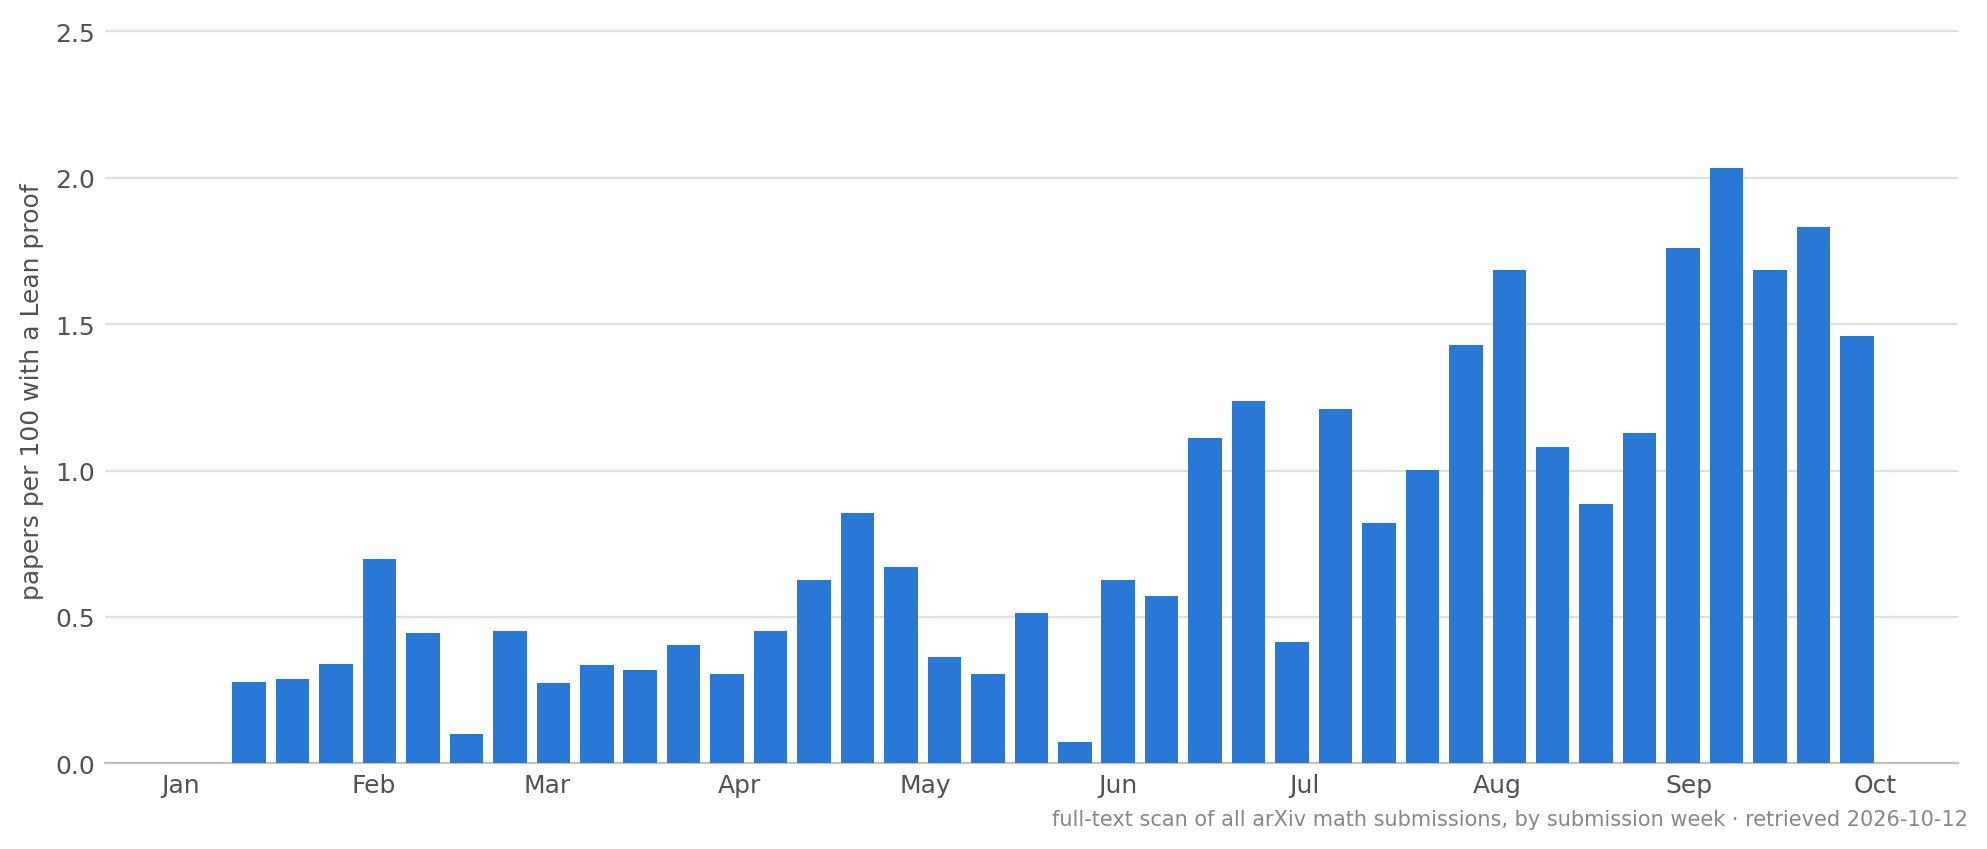
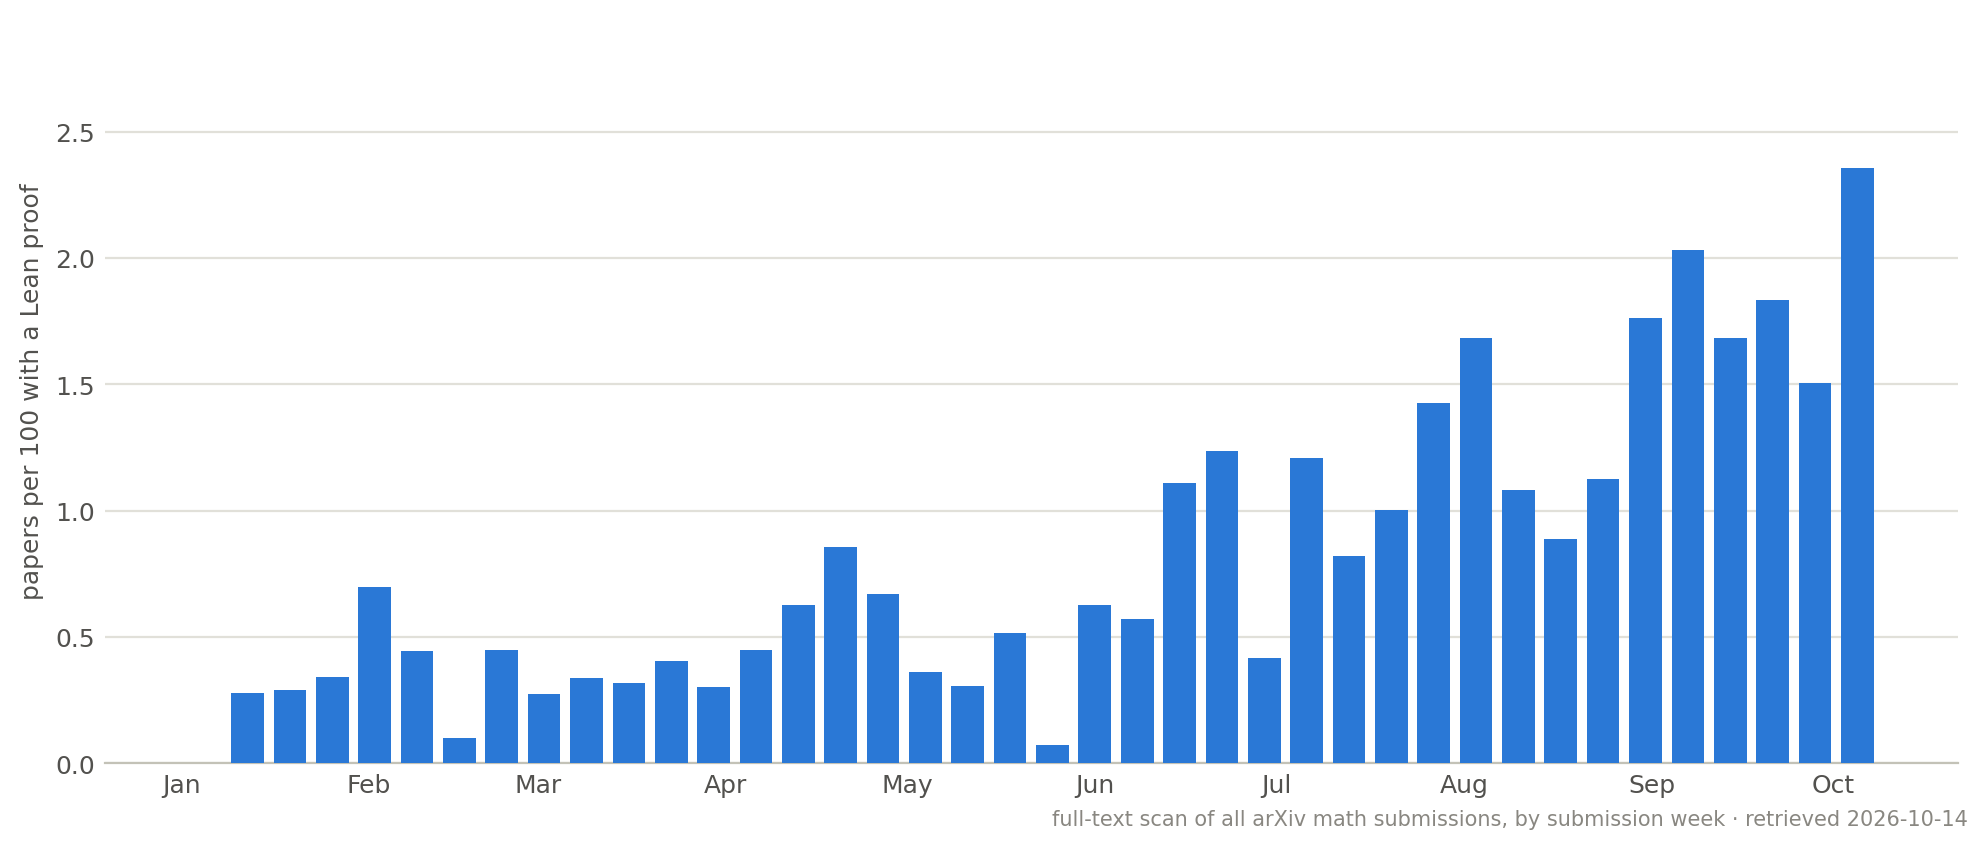
arXiv figure: data through the week of 5 October 2026
The week of 28 September grew (2 522 papers, 38 with a Lean-checked
result) and the week of 5 October is now complete: 60 of 2 546, 2.4
per 100, the highest week so far. Caption, alt text, slide fragment
and the script's docstring no longer say "under two in a hundred".

The GitHub figure is unchanged; its data is the same file as before,
and it only draws full quarters.

Claude-Session: https://claude.ai/code/session_011hHyctfXpfm9hUhve1Fytv

diff --git a/scripts/make_arxiv_figure.py b/scripts/make_arxiv_figure.py
@@ -3,9 +3,9 @@
 
 Plotted per 100 papers rather than as a weekly count, because the
 denominator moved: arXiv math went from about a thousand submissions a
-week in January 2026 to about twenty-four hundred at the end of
-September.  A rising count would partly be that growth; the share shows
-the level, which is still under two in a hundred.
+week in January 2026 to about twenty-five hundred in early October.  A
+rising count would partly be that growth; the share shows the level,
+which reached 2.4 per 100 in the first week of October.
 
 Data: scripts/data/arxiv_math_weekly.csv -- a full-text scan of every
 arXiv math submission of the period for uses of Lean and Mathlib,

diff --git a/CLAUDE.md b/CLAUDE.md
@@ -1291,3 +1291,24 @@ course is for" (Ziele) und "What your machine needs" (Hardware-Tabelle).
   eine Roadmap ueber den ganzen Bogen statt nur ueber die vier
   Episoden; `Mathlib` hat Zahlen und die Initiative dazubekommen.
   Keine Folie ueber 700 px, alle 31 haben Notizen.
+
+## 2026-10-14 (2) -- arXiv-Grafik auf den Stand vom 14.10.2026
+
+- **Nur die arXiv-Grafik hat neue Daten.** Quelle ist
+  `~/bwSyncShare/Vortraege/20260720_CRC/arxiv_fulltext_disclosure_weekly.csv`
+  (Stand 14.10.2026, 06:23); `scripts/data/arxiv_math_weekly.csv` ist
+  der Auszug daraus (`week_start`, `n` -> `papers`, `lean_formalized`,
+  `complete`). Geaendert: die Woche 28.09. ist nachgewachsen (2 466 ->
+  2 522 Papers, 36 -> 38), die Woche 05.10. ist jetzt vollstaendig
+  (2 546 / 60), die Woche 12.10. ist angelaufen und wird vom Skript
+  wegen `complete = 0` uebersprungen.
+- **Neuer Hoechstwert 2,36 pro 100** (05.10.), vorher 2,03 (07.09.).
+  Damit stimmte "still under two in a hundred" im Kapitel, im
+  Alt-Text, im Fragment der Folie und im Docstring von
+  `make_arxiv_figure.py` nicht mehr -- alle vier nachgezogen.
+- **`github_language_monthly.csv` ist unveraendert** (byte-identisch
+  mit der Quelle vom 01.10.). Die Grafik waere auch bei neuen Daten
+  gleich geblieben: sie zeichnet nur volle Quartale, und Q3 2026 ist
+  schon drin. `itp_github_repos_per_million.*` deshalb *nicht* neu
+  erzeugt -- ein Lauf haette nur den Stempel "retrieved" auf heute
+  gesetzt und damit ein falsches Datum behauptet.
